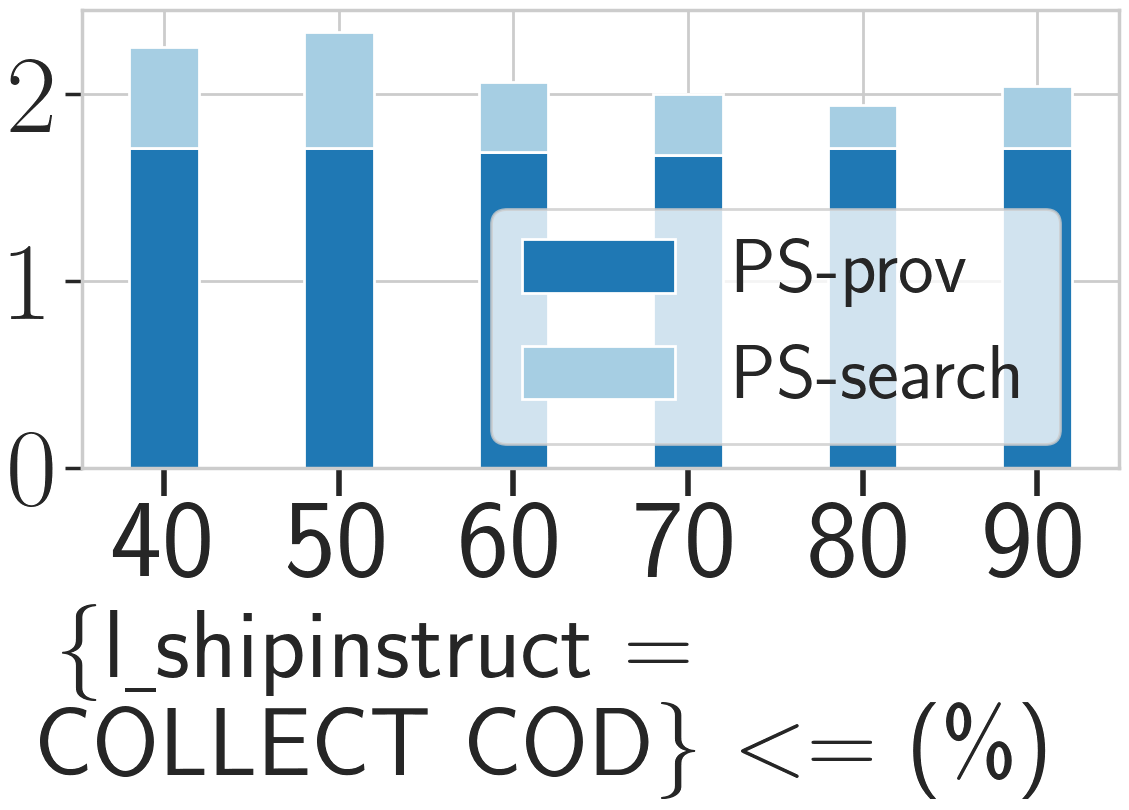
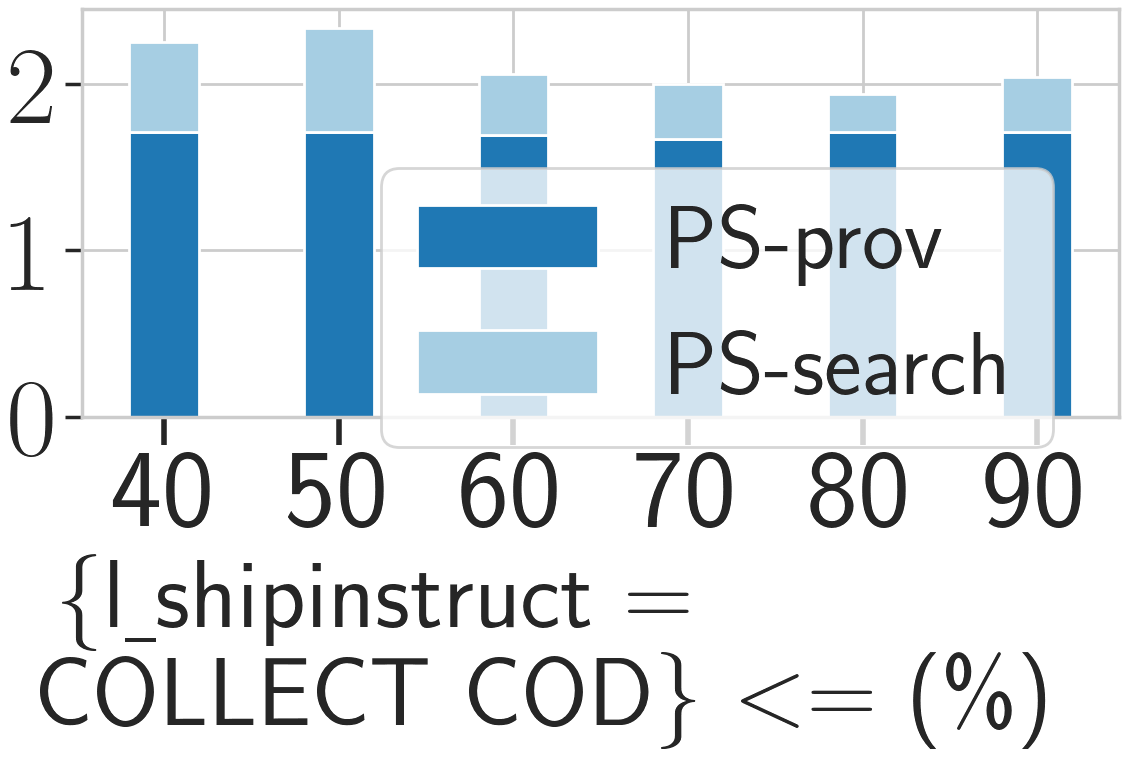
fig

diff --git a/Experiment/TPCH/100M/constraint_change/q3_contract/fig.py b/Experiment/TPCH/100M/constraint_change/q3_contract/fig.py
@@ -7,6 +7,7 @@ import matplotlib.ticker as ticker
 import datetime
 from matplotlib.dates import AutoDateLocator, AutoDateFormatter, date2num
 
+
 sns.set_palette("Paired")
 # sns.set_palette("deep")
 sns.set_context("poster", font_scale=2)
@@ -18,10 +19,11 @@ plt.rcParams['ytick.left'] = True
 
 color = ['C1', 'C0', 'C3', 'C2']
 label = ['PS-prov', "PS-search", "BL-prov", "BL-search"]
+
 plt.rc('text', usetex=True)
 plt.rc('font', size=70, weight='bold')
 
-f_size = (14, 10)
+f_size = (14, 9.5)
 
 x_list = list()
 x_naive = list()
@@ -57,7 +59,6 @@ def run(query, size, constraint):
         else:
             execution_timebl1.append(0)
             execution_timebl2.append(0)
-    # x_list = [19941230, 19950115, 19950130, 19950215, 19950230, 19950315, 19950330, 19950415]
     x_list = [40, 50, 60, 70, 80, 90]
 
     print(x_list, execution_timeps1, execution_timeps2)
@@ -80,15 +81,14 @@ def run(query, size, constraint):
     # plt.bar(index + bar_width, execution_timebl2, bar_width, bottom=execution_timebl1,
     #         color=color[3], label=label[3])
     #
-
     plt.xticks(np.arange(0, 6, 1), x_list, rotation=0, fontsize=80)
     plt.yticks(fontsize=80, weight='bold')
 
     plt.xlabel(r'\{l\underline{ }shipinstruct = \\COLLECT COD\} $<=$ (\%)',
-               fontsize=70).set_position((0.45, -0.1))
+               fontsize=70, weight='bold').set_position([0.45, -0.1])
 
-    plt.legend(loc='upper right', bbox_to_anchor=(0.98, 0.65), fontsize=55)
-    # plt.legend(loc="best", fontsize=50)
+    plt.legend(loc='upper right', bbox_to_anchor=(0.98, 0.72), fontsize=65)
+    # plt.legend(loc="best")
     plt.tight_layout()
     fig_path = "constraint_change_q" + str(query) + "_" + size + "_" + constraint + ".png"
 
